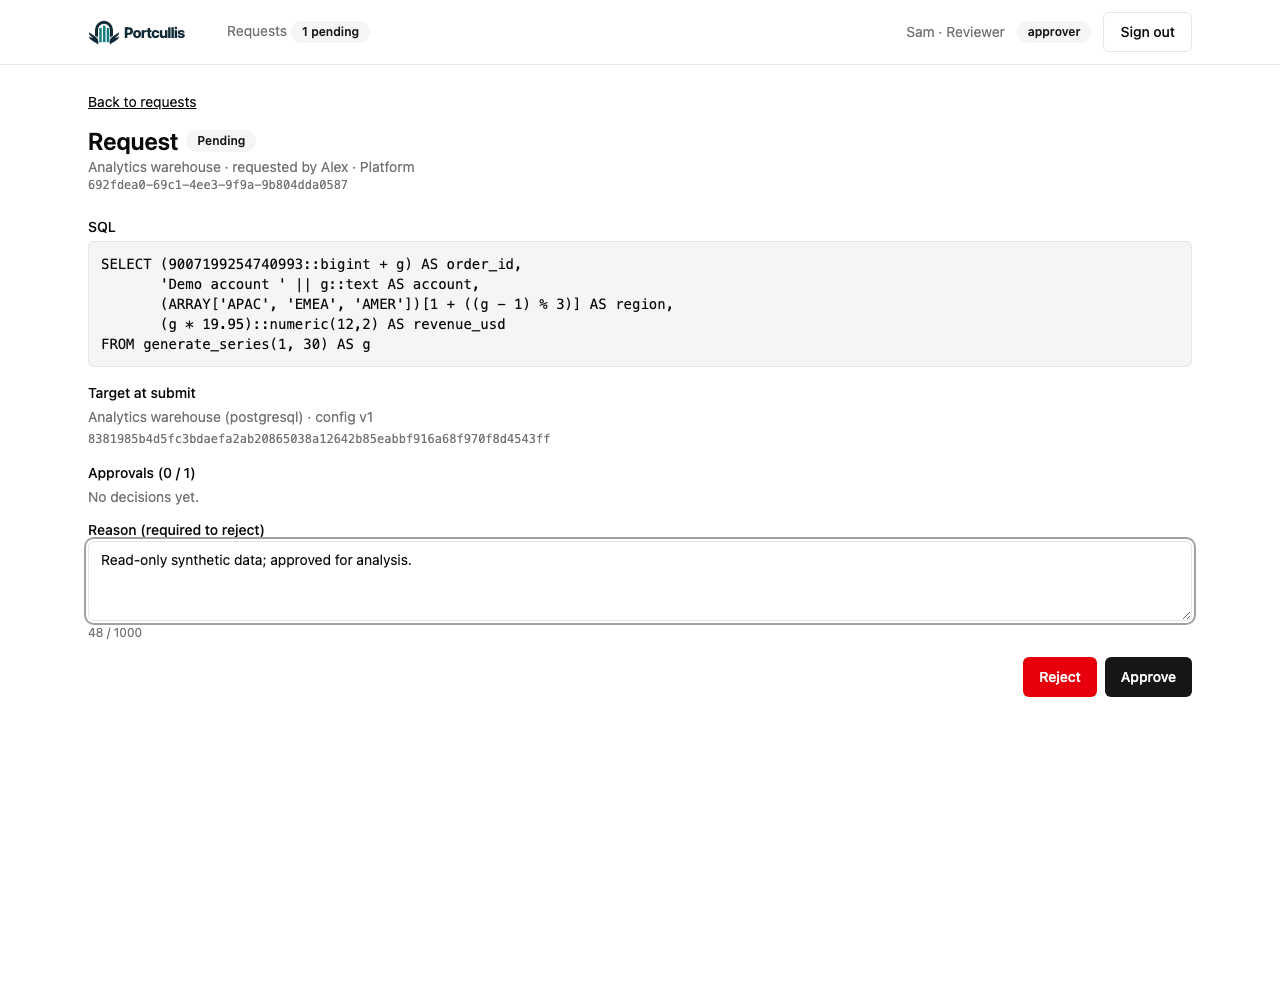
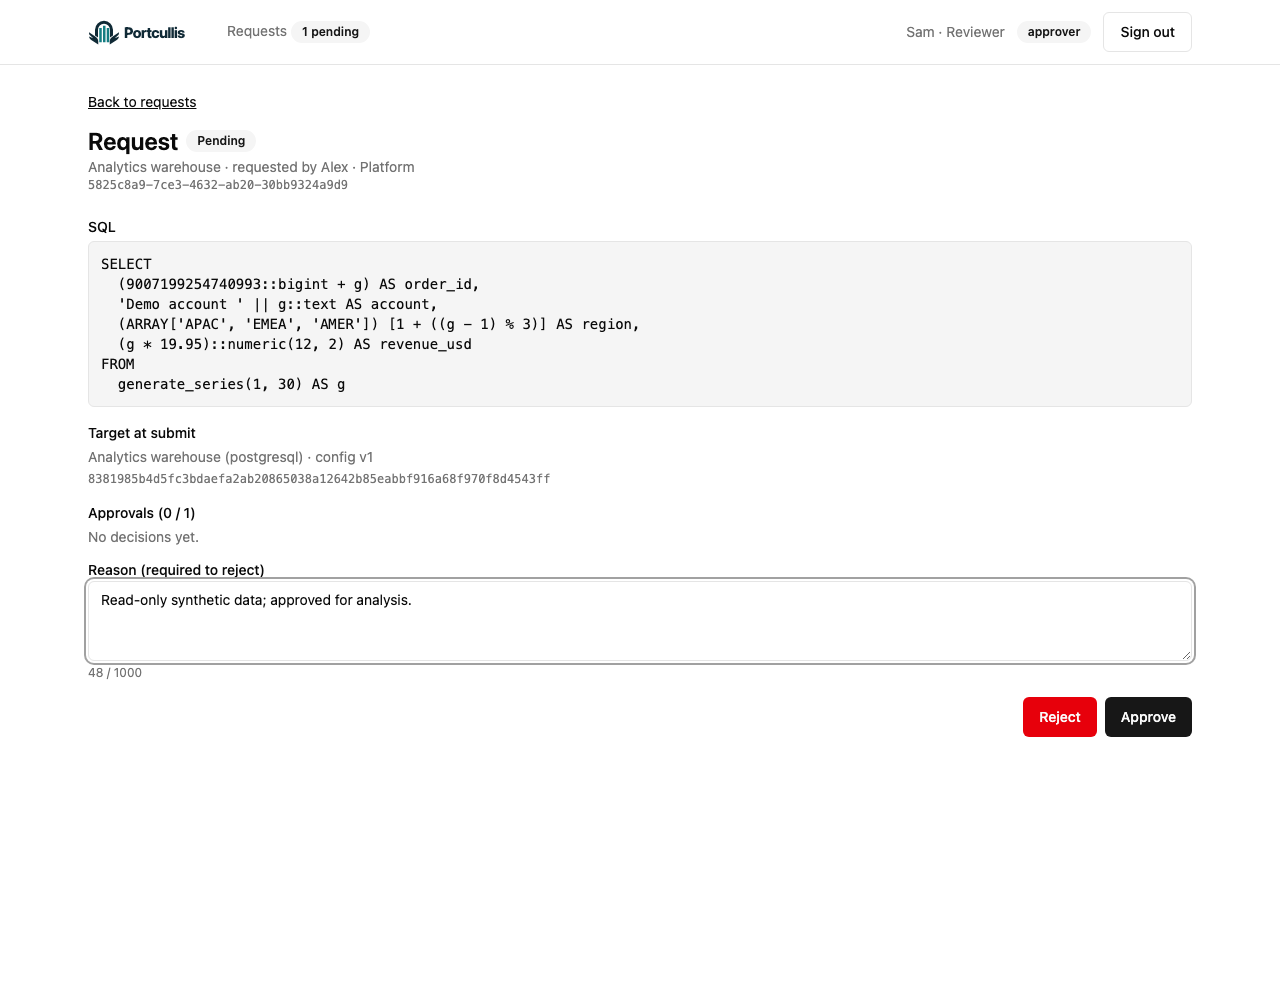
docs: refresh README media for automatic SQL formatting

diff --git a/docs/media/make_gifs.py b/docs/media/make_gifs.py
@@ -11,9 +11,12 @@ groups = json.loads((root / ".test-docker/readme-media/frames.json").read_text()
 font = ImageFont.load_default(size=20)
 for name, records in groups.items():
     frames = []
-    for record in records:
-        screenshot = Image.open(record["path"]).convert("RGB")
-        canvas = Image.new("RGB", (screenshot.width, screenshot.height + 56), "#102A36")
+    screenshots = [Image.open(record["path"]).convert("RGB") for record in records]
+    width = max(screen.width for screen in screenshots)
+    height = max(screen.height for screen in screenshots)
+    for record, screenshot in zip(records, screenshots):
+        canvas = Image.new("RGB", (width, height + 56), "white")
+        ImageDraw.Draw(canvas).rectangle((0, 0, width, 56), fill="#102A36")
         canvas.paste(screenshot, (0, 56))
         ImageDraw.Draw(canvas).text((24, 17), record["caption"], font=font, fill="#F5F4EF")
         frames.append(canvas.quantize(colors=128))

diff --git a/docs/media/README.md b/docs/media/README.md
@@ -10,7 +10,7 @@ These assets show the actual embedded SPA and Go server with synthetic data in a
 | `login.png` | Branded local sign-in screen |
 | `connections.png` | Two demo connections with development/production labels |
 | `policy.png` | Default read-only policy and one distinct required reviewer |
-| `request.png` | SQL composition on a dedicated page with typed parameters |
+| `request.png` | SQL composition with local auto-format, manual format, undo and typed parameters |
 | `review.png` | A distinct reviewer inspecting submitted SQL |
 | `results.png` | Typed results with exact large integers and decimal amounts |
 | `workflow.gif` | Request → distinct approval → single-use execution |
@@ -35,6 +35,6 @@ PYTHONPATH="$PWD/.test-docker/media-python" python3 docs/media/make_gifs.py
 
 `capture.mjs` builds the SPA and real binary, starts a fresh database, bootstraps a demo administrator, provisions a distinct reviewer, then operates the real browser UI. It asserts the request state transitions, single-use execution, approval button layout, exact result values, sorting, filtering and whole-snapshot CSV contents. It writes temporary frames into ignored `.test-docker/readme-media/`; only final PNGs and GIFs belong in Git. The synthetic password and randomly generated master key are confined to this throwaway installation.
 
-The GIFs are deliberately paced step walkthroughs rather than continuous video. The only added visual element is a caption strip outside the unchanged application screenshot. Each captioned frame is encoded with a 128-color palette and a 1.6–2.8 second reading pause. Keep a static result screenshot and descriptive alt text in the README so understanding the feature does not depend on animation.
+The GIFs are deliberately paced step walkthroughs rather than continuous video. The only added visual element is a caption strip outside the unchanged application screenshot. Each captioned frame is encoded with a 128-color palette and a 1.6–2.8 second reading pause. Full-page captures keep approval actions visible; GIF frames share a canvas sized to the tallest captured page. Keep a static result screenshot and descriptive alt text in the README so understanding the feature does not depend on animation.
 
 Capture API behavior follows the [Playwright screenshot documentation](https://playwright.dev/docs/api/class-page#page-screenshot); GIF encoding follows [Pillow's GIF documentation](https://pillow.readthedocs.io/en/stable/handbook/image-file-formats.html#gif). Inspect every final screenshot and the GIF sequence before committing refreshed media. Use only synthetic accounts, SQL and results; do not capture actual credentials or operational data.

diff --git a/docs/operations/m1-validation.md b/docs/operations/m1-validation.md
@@ -30,6 +30,12 @@ ADR-0022 is implemented: request composition, details/review and results have re
 
 The final `make verify` after these changes passed build, vet, lint (zero issues), all Go tests including Testcontainers database coverage, frontend typecheck/lint, 104 frontend tests and load-script typecheck. Browser E2E passed 9 of 10, including direct reload/history, long SQL, draft recovery and connection/policy flows. Its sole remaining failure is native CSV saving returning `canceled`; suggested filename and prepared whole-snapshot content pass, and native file-content readback remains enabled. The actual README screenshots and the six-frame workflow/five-frame result GIFs were regenerated and inspected for these page layouts.
 
+## Editable SQL formatting verification
+
+ADR-0023 adds local PostgreSQL formatting to new-request and draft-edit fields, defaulting to format-on-blur with opt-out, manual formatting and undo. Stored review SQL remains unchanged. The new pure scenarios first observed failures for indentation, incomplete-input preservation and byte admission against the initial no-op implementation, then passed after implementation. Coverage additionally retains named/native placeholders, casts, exact literal bodies, nested comments and adjacent string literals whose whitespace may carry SQL meaning.
+
+Build, vet, lint (zero issues), all Go tests including Testcontainers coverage, frontend typecheck/lint, 109 frontend tests and load-script typecheck passed during the full verification run. The initial browser run exposed ambiguous substring labels after introducing the Auto-format SQL checkbox; selectors were narrowed to the exact SQL field. The subsequent complete browser suite passed 10 of 11, including automatic formatting, undo, explicit save/reload and failed formatting in draft edits. Its sole remaining failure is the existing native CSV `canceled` assertion, which remains enabled. README source and actual PNG/GIF files were refreshed together from the real application, with full-page capture and consistent GIF frame dimensions.
+
 ## Reproduction
 
 Use a project-local Docker configuration with `{"auths":{}}` to avoid reading unrelated home configuration. Point `DOCKER_CONFIG` at it and `DOCKER_HOST` at the explicitly permitted Docker socket. Set `CI=true` for the noninteractive pnpm install and `PLAYWRIGHT_BROWSERS_PATH` to a project-local browser installation, then run `make verify`. Playwright's configured download directory is project-local as well. The Docker socket and Go build cache require the path-specific permissions established for this session.

diff --git a/docs/adr/0023-local-sql-formatting.md b/docs/adr/0023-local-sql-formatting.md
@@ -18,7 +18,7 @@ The [SQL Formatter documentation](https://github.com/sql-formatter-org/sql-forma
 
 Use pinned `sql-formatter` locally through the PostgreSQL dialect API. Preserve keyword, identifier, function and data-type case; use two-space indentation. Enable both native `$1` and application `:name` placeholders without substituting parameter values. No SQL is sent to a third-party service.
 
-New-request and draft-edit SQL fields default to format-on-blur, with an opt-out checkbox, a manual Format SQL action and a one-step Undo formatting action. Undo disables automatic formatting for that editor session so leaving the field does not immediately reapply it. Subsequent typing invalidates the previous undo snapshot. Format runs synchronously before the following explicit save/submit click; no hidden formatting occurs inside an RPC or after submission. Failed/unsupported formatting leaves the input intact and reports a short inline message. Bound formatting input to 64 KiB; server validation remains authoritative. Conservatively retain SQL containing adjacent string literals (including separators with comments): their newline can carry PostgreSQL concatenation semantics, so formatting must neither remove an existing newline nor introduce one between invalid adjacent literals.
+New-request and draft-edit SQL fields default to format-on-blur, with an opt-out checkbox, a manual Format SQL action and a one-step Undo formatting action. Undo disables automatic formatting for that editor session so leaving the field does not immediately reapply it. Subsequent typing invalidates the previous undo snapshot. Format runs synchronously before the following explicit save/submit click; no hidden formatting occurs inside an RPC or after submission. Failed/unsupported formatting leaves the input intact and reports a short inline message. Bound formatting input to 64 KiB; server validation remains authoritative. Conservatively retain SQL containing adjacent string literals (including separators with comments): their newline can carry [PostgreSQL concatenation semantics](https://www.postgresql.org/docs/18/sql-syntax-lexical.html#SQL-SYNTAX-CONSTANTS), so formatting must neither remove an existing newline nor introduce one between invalid adjacent literals.
 
 Submitted/review SQL continues displaying the stored original. It is never silently formatted, persisted again, hashed differently or replaced at execution. Parameters remain in their separate typed draft rows. Store temporary undo content in component memory only and clear it on editor unmount.
 

diff --git a/README.md b/README.md
@@ -8,7 +8,7 @@ Self-hosted database governance and result exploration. Control access and chang
 
 ## Request, review, execute once
 
-Compose SQL on a dedicated request page with room for the statement and typed parameters. Save a draft to continue editing, or submit it for approval. Submission freezes the request payload and policy version. A distinct reviewer inspects the request, then the original requester executes it once. An executed request cannot be replayed.
+Compose SQL on a dedicated request page with room for the statement and typed parameters. SQL auto-formats when you leave the editor; you can turn it off, format manually, or undo the formatting. Save a draft to continue editing, or submit it for approval. Submission freezes the request payload and policy version. A distinct reviewer inspects the request, then the original requester executes it once. An executed request cannot be replayed.
 
 ![SQL composition on the dedicated request page](docs/media/request.png)
 
